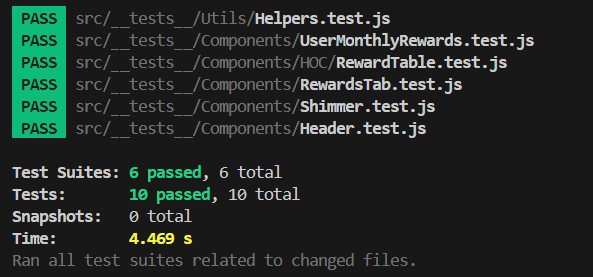
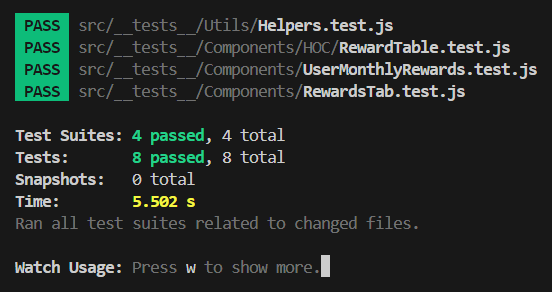
Fixed failing test cases

Changed region(s): [[0.0, 0.0, 0.9855, 0.8087], [0.0, 0.8375, 0.7083, 0.9819]]

diff --git a/src/__tests__/Components/HOC/RewardTable.test.js b/src/__tests__/Components/HOC/RewardTable.test.js
@@ -2,20 +2,19 @@ import React from "react";
 import { render, screen } from "@testing-library/react";
 import getRewardTable from "../../../Components/HOC/RewardTable";
 import Table from "../../../Components/Table";
-import { getTotalRewardsAPI } from "../../../Services";
 import { totalRewardsFormatter } from "../../../utils/Helpers";
 import { CONSTANTS } from "../../../utils/Config";
+import transactionsData from "../../../../public/data/Transactions.json";
 import "@testing-library/jest-dom";
 
 describe("RewardsTable HOC Tests", () => {
   test("Displays No Data Available when data is not present", () => {
     const WrappedTable = getRewardTable(Table, {
-      fetchData: () => null,
-      serializer: () => null,
+      serializer: () => [],
       columns: [],
     });
 
-    render(<WrappedTable />);
+    render(<WrappedTable data={[]}/>);
 
     const label = screen.findByLabelText("No data available!");
     expect(label).toBeTruthy();
@@ -23,12 +22,11 @@ describe("RewardsTable HOC Tests", () => {
 
   test("Renders Total Rewards table without any errors", () => {
     const WrappedTable = getRewardTable(Table, {
-      fetchData: getTotalRewardsAPI,
       serializer: totalRewardsFormatter,
       columns: CONSTANTS.TOTAL_REWARDS_COLUMNS,
     });
 
-    render(<WrappedTable />);
+    render(<WrappedTable data={transactionsData} />);
 
     const table = screen.getAllByRole("table");
     expect(table).toHaveLength(1);

diff --git a/src/__tests__/Components/UserMonthlyRewards.test.js b/src/__tests__/Components/UserMonthlyRewards.test.js
@@ -1,14 +1,14 @@
 import React from "react";
 import { render, screen } from "@testing-library/react";
 import UserMonthlyRewardsTable from "../../Components/UserMonthlyRewards";
-import mockData from "../../../public/data/UserMonthlyRewards.json";
+import mockData from "../../../public/data/Transactions.json";
 import { userMonthlyRewardsFormatter } from "../../utils/Helpers";
 import { CONSTANTS } from "../../utils/Config";
 import "@testing-library/jest-dom";
 
 describe("UserMonthlyRewards Tests", () => {
   test("Displays correct number of tables", () => {
-    const data = userMonthlyRewardsFormatter(mockData);
+    const data = userMonthlyRewardsFormatter(mockData, CONSTANTS.REWARDS_START_DATE);
     render(
       <UserMonthlyRewardsTable
         data={data}

diff --git a/src/utils/Helpers.js b/src/utils/Helpers.js
@@ -85,7 +85,7 @@ const calculateRewards = (price) => {
 export const totalRewardsFormatter = (data = []) => {
   const calculatedRewardsData = data.reduce(
     (acc, { name, price, customerId }) => {
-      const reward = calculateRewards(price, 0);
+      const reward = calculateRewards(price);
       if (acc[name]) {
         acc[name].rewards += reward;
       } else {
@@ -102,7 +102,7 @@ export const totalRewardsFormatter = (data = []) => {
 
   return Object.keys(calculatedRewardsData).map((customer) => ({
     ...calculatedRewardsData[customer],
-    rewards: calculatedRewardsData[customer].rewards.toFixed(2),
+    rewards: calculatedRewardsData[customer].rewards,
   }));
 };
 

diff --git a/src/Components/HOC/WithDatePicker.js b/src/Components/HOC/WithDatePicker.js
@@ -2,6 +2,7 @@ import { useState } from "react";
 import DatePicker from "react-datepicker";
 import { FaCircleInfo } from "react-icons/fa6";
 import "react-datepicker/dist/react-datepicker.module.css";
+import { CONSTANTS } from "../../utils/Config";
 
 const ToolTip = () => {
   return (
@@ -15,7 +16,7 @@ const ToolTip = () => {
 };
 
 const withDatePicker = (TargetComponent) => (props) => {
-  const [startDate, setStartDate] = useState("2024-05-01");
+  const [startDate, setStartDate] = useState(CONSTANTS.REWARDS_START_DATE);
   return (
     <div className="flex flex-col justify-end content-end items-center">
       <div className="flex justify-end items-center">

diff --git a/src/__tests__/Components/RewardsTab.test.js b/src/__tests__/Components/RewardsTab.test.js
@@ -1,14 +1,14 @@
 import React from "react";
 import { fireEvent, render, screen, waitFor } from "@testing-library/react";
 import RewardTabs from "../../Components/RewardTabs";
-import userMonthlyRewardsData from "../../../public/data/UserMonthlyRewards.json";
+import transactionsData from "../../../public/data/Transactions.json";
 import "@testing-library/jest-dom";
 
 describe("RewardTabs Tests", () => {
   beforeEach(() => {
     jest.spyOn(global, "fetch").mockImplementation(() =>
       Promise.resolve({
-        json: () => Promise.resolve(userMonthlyRewardsData),
+        json: () => Promise.resolve(transactionsData),
       }),
     );
   });

diff --git a/src/__tests__/Utils/Helpers.test.js b/src/__tests__/Utils/Helpers.test.js
@@ -17,12 +17,11 @@ describe("Helpers Tests", () => {
         },
       ];
       const expectedResult = {
-        July: [
+        "July 2024": [
           {
             customerId: "123",
             name: "Jon Doe",
-            month: "July",
-            year: "2024",
+            purchaseDate: "01/07/2024",
             price: "$120.00",
             rewards: 90,
           },
@@ -52,7 +51,7 @@ describe("Helpers Tests", () => {
         {
           name: "John Doe",
           customerId: "123",
-          rewards: "180.00",
+          rewards: 180,
         },
       ];
       expect(totalRewardsFormatter(input)).toEqual(expectedResult);

diff --git a/src/Components/HOC/RewardTable.js b/src/Components/HOC/RewardTable.js
@@ -18,7 +18,7 @@ const getRewardTable =
       return <Shimmer columns={columns.length} />;
     }
 
-    if (!isLoading && !memoizedData && !memoizedData.length) {
+    if (!isLoading && typeof memoizedData !== 'object') {
       return (
         <div className="w-full flex items-center justify-center my-10 text-2xl">
           <h1>No data available!</h1>

diff --git a/src/utils/Config.js b/src/utils/Config.js
@@ -1,6 +1,7 @@
 export const CONSTANTS = {
   LOG_LEVEL: process.env.REACT_APP_APP_ENV === "production" ? "warn" : "log",
   ROWS_PER_PAGE: 20,
+  REWARDS_START_DATE: '2024-05-01',
   USER_MONTHLY_REWARDS_COLUMNS: [
     { name: "Customer ID", value: "customerId" },
     { name: "Name", value: "name" },
